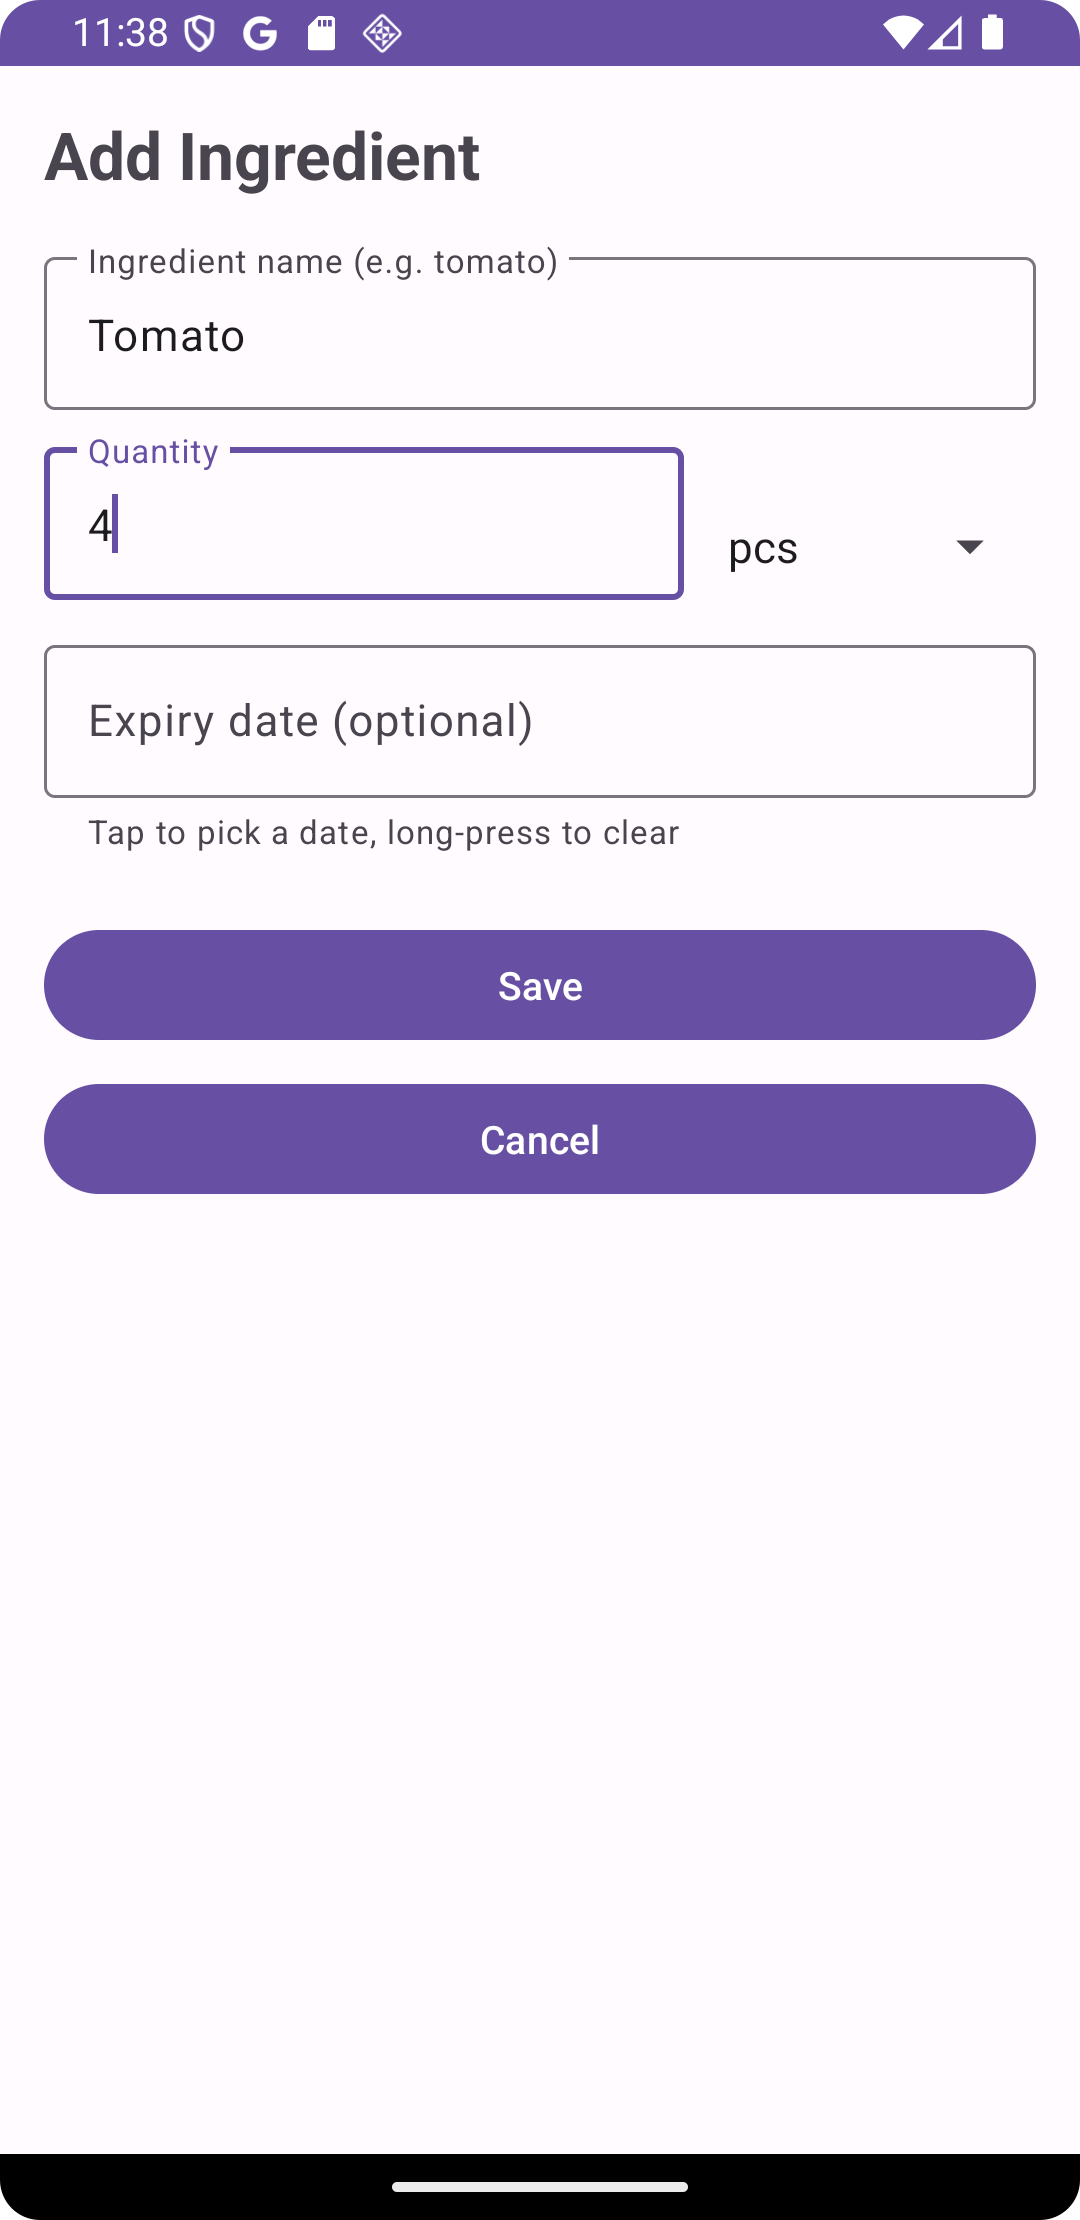
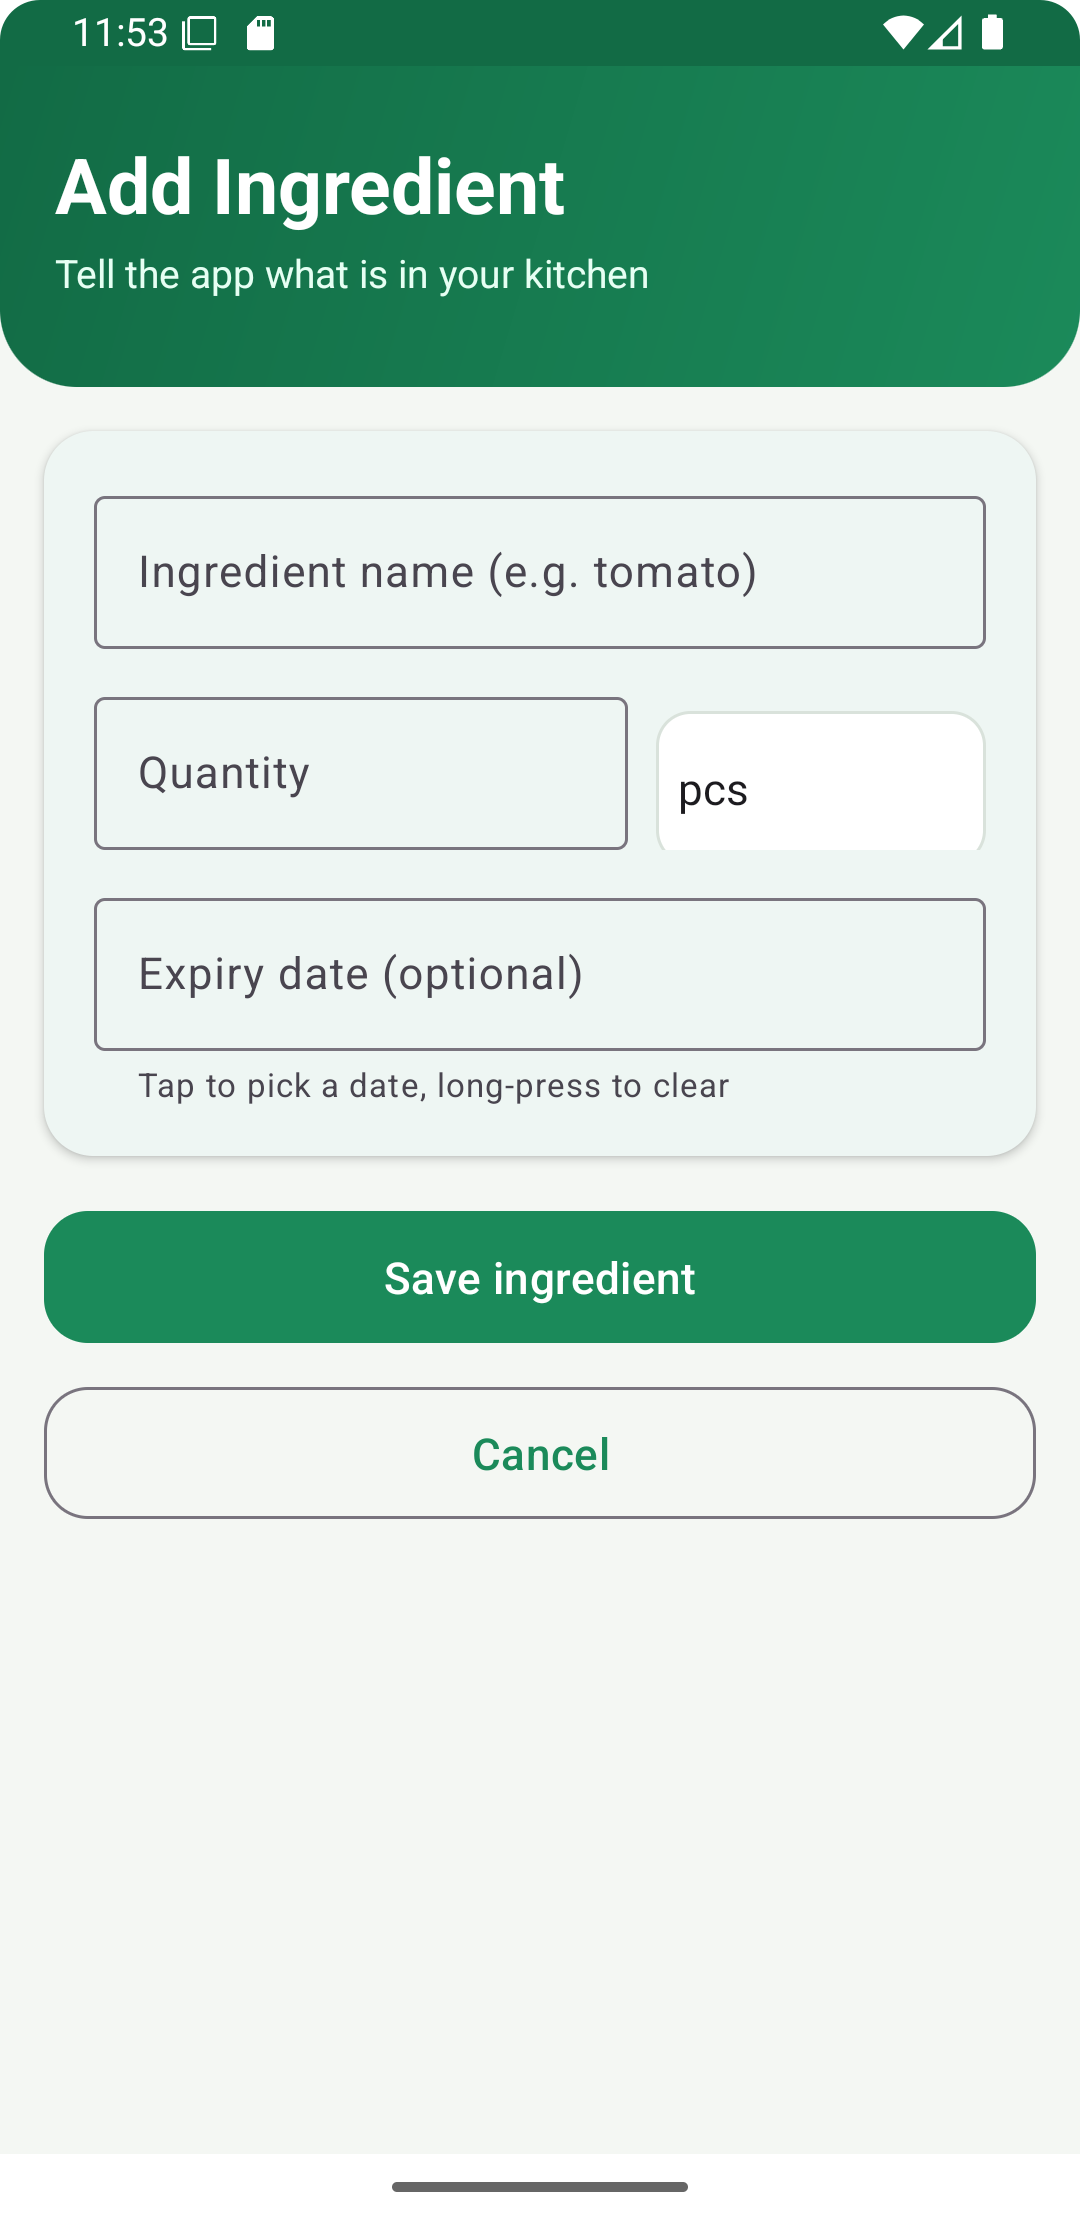
Redesign UI with Material 3 theme, fix FAB crash and tap handling

diff --git a/app/src/main/java/com/example/smartpantrymanager/IngredientAdapter.java b/app/src/main/java/com/example/smartpantrymanager/IngredientAdapter.java
@@ -84,8 +84,12 @@ public class IngredientAdapter extends RecyclerView.Adapter<IngredientAdapter.Vi
             holder.tvExpiry.setVisibility(View.GONE);
         }
 
+        holder.itemView.setOnClickListener(v -> listener.onEdit(item));
         holder.rowContainer.setOnClickListener(v -> listener.onEdit(item));
-        holder.btnDelete.setOnClickListener(v -> listener.onDelete(item));
+        holder.btnDelete.setOnClickListener(v -> {
+            android.util.Log.d("PantryTap", "delete tapped: " + item.getName());
+            listener.onDelete(item);
+        });
     }
 
     @Override
